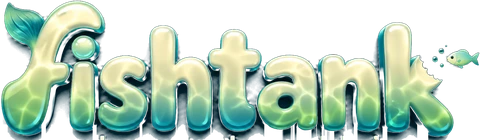
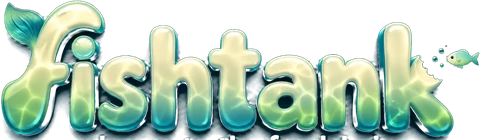
Cut the tagline out of the wordmark by colour, not by geometry
The corner logo carried a row of pale stubs under the word. They are the
tagline's ascender tips - `welcome to the foodchain` stands up into the
word's own band, to about row 510, well above the cut at 529 - and they
were always there; at 46 px tall they were a smudge, and the logo is 75 px
tall now.

Geometry cannot remove them, which is the part worth writing down. Alpha
in this painting marks the background and nothing else: the letters, the
tagline and the painted halo between them are all opaque, so the halo
bridges the two lines into a single region. The per-column rule standing
here looked for the run of ink attached to the top of the overlap strip
and found one run per column spanning both lines, so it kept precisely the
tips it was written to remove. A flood from the tagline's band, tried
first, ran up into the word as far as row 84 for the same reason.

Colour separates them cleanly. Green minus red is 63 in the middle of the
word and -1 in the middle of the tagline, and 0.3% of the word's pixels
read as cream at all, so inside the strip the cream goes, with the glow
around it, and anything convincingly teal or dark stays. The letters keep
their round bottoms and their outlines.

Also: the copy() in keyed() is load-bearing and now says so. fromarray
returns a readonly image and floodfill writes through load(), so without
it the fill silently does nothing - which cost a round of debugging here.

diff --git a/tools/make-brand.py b/tools/make-brand.py
@@ -62,8 +62,15 @@ for path in (BRAND, ICONS, DOCS):
 LO, HI = 14, 46
 # The row where the wordmark's descenders and the tagline's ascenders are least
 # tangled, and the top of the strip in which they overlap at all. Both are in
-# the coordinates of the trimmed art, which is 1817 x 610.
+# the coordinates of the trimmed art, which is 1818 x 611.
 SPLIT, TANGLE = 529, 470
+# Telling the two lines apart inside that strip, by colour. Measured on the
+# painting: green minus red is 63 in the middle of the word and -1 in the
+# middle of the tagline, and only 0.3% of the word's own pixels are cream at
+# all. CREAM is the green-minus-red below which a pixel is not teal, LIT the
+# luminance above which it is the tagline's ink rather than a letter's dark
+# outline, and TEAL the margin that puts a pixel beyond doubt in the word.
+CREAM, LIT, TEAL = 14, 140, 30
 # A box around the fish and its bubbles, then trimmed to whatever ink is
 # actually inside it, because a box measured by eye leaves the motif swimming
 # in dead space once it is centred in a square.
@@ -97,6 +104,12 @@ def keyed():
     # Flood inward from the border through everything within reach of the
     # background colour. Anything enclosed is never touched.
     reachable = Image.fromarray(((distance < HI) * 255).astype(np.uint8))
+    # The copy is load-bearing, not tidiness. Image.fromarray hands back a
+    # readonly image wrapping the array's buffer, and ImageDraw.floodfill
+    # writes through load() without asking for a mutable one: given the
+    # original it fills nothing, raises nothing, and every pixel comes back
+    # unflooded - which reads as "the background could not be keyed" and sends
+    # you looking at the thresholds instead.
     filled = reachable.copy()
     seeds = [(x, y) for x in range(0, w, 40) for y in (0, h - 1)]
     seeds += [(x, y) for y in range(0, h, 40) for x in (0, w - 1)]
@@ -118,21 +131,56 @@ def keyed():
 
 
 def wordmark(art):
-    """The word on its own, with the tagline's ascender tips removed."""
+    """The word on its own, with the tagline's ascender tips removed.
+
+    The tips reach up to about row 510, well above the cut at SPLIT, so the cut
+    alone cannot take them: `welcome to the foodchain` has an ascender in six
+    of its words and they stand up into the word's own band.
+
+    Geometry cannot separate them either, which is the thing worth knowing
+    here. Alpha in this painting marks the background and nothing else - the
+    letters, the tagline and the painted halo between them are all opaque - so
+    the halo bridges the two lines into one region. Every run-based or
+    connectivity-based rule then joins them: a per-column rule that kept the
+    ink attached to the top of the strip found *one* run per column spanning
+    both lines, so it kept the tips it was written to remove, and a flood from
+    the tagline's band ran up into the word as far as row 84.
+
+    Colour does separate them, cleanly. The word is teal and the tagline is
+    cream: green minus red is 63 in the middle of the word and -1 in the middle
+    of the tagline. So inside the strip the cream is removed, along with the
+    glow immediately around it, and anything convincingly teal or dark is kept
+    - those are the letters and their outlines.
+    """
+    rgba = np.array(art).astype(np.int16)
     alpha = np.array(art)[:, :, 3].copy()
-    ink = alpha > 60
-    for x in range(art.size[0]):
-        column = ink[TANGLE:SPLIT, x]
-        if not column.any() or not column[0]:
-            # Nothing at the top of the strip means nothing here is joined to
-            # the word: whatever it is, it belongs to the tagline.
-            alpha[TANGLE:SPLIT, x] = 0
-            continue
-        gap = np.argmax(~column) if (~column).any() else len(column)
-        alpha[TANGLE + gap : SPLIT, x] = 0
+    r, g, b = rgba[:, :, 0], rgba[:, :, 1], rgba[:, :, 2]
+    teal = g - r
+    lum = (r + g + b) // 3
+    cream = (teal < CREAM) & (lum > LIT)
+    # Only where the lines interleave. The word's own glossy highlights are
+    # cream-bright higher up and are none of this rule's business.
+    cream[:TANGLE] = False
+    cream[SPLIT:] = False
+    # A tip's antialiasing and its glow have to go with it or it comes back as
+    # a soft smudge, so the removal grows a few pixels - but it never takes a
+    # teal pixel, which is a letter, nor a dark one, which is a letter's
+    # outline.
+    grown = (
+        np.array(
+            Image.fromarray((cream * 255).astype(np.uint8)).filter(
+                ImageFilter.MaxFilter(7)
+            )
+        )
+        > 0
+    )
+    alpha[grown & (teal < TEAL) & (lum > 90)] = 0
     out = Image.fromarray(np.dstack([np.array(art)[:, :, :3], alpha]))
     out = out.crop((0, 0, art.size[0], SPLIT))
-    return out.crop(out.getbbox())
+    box = out.getbbox()
+    print(f"  the tagline's tips were {cream.sum()} px of cream in the strip")
+    print(f"  the word's own ink ends at row {box[3]} of the painting")
+    return out.crop(box)
 
 
 def wide(image, width, path, quality=90):
